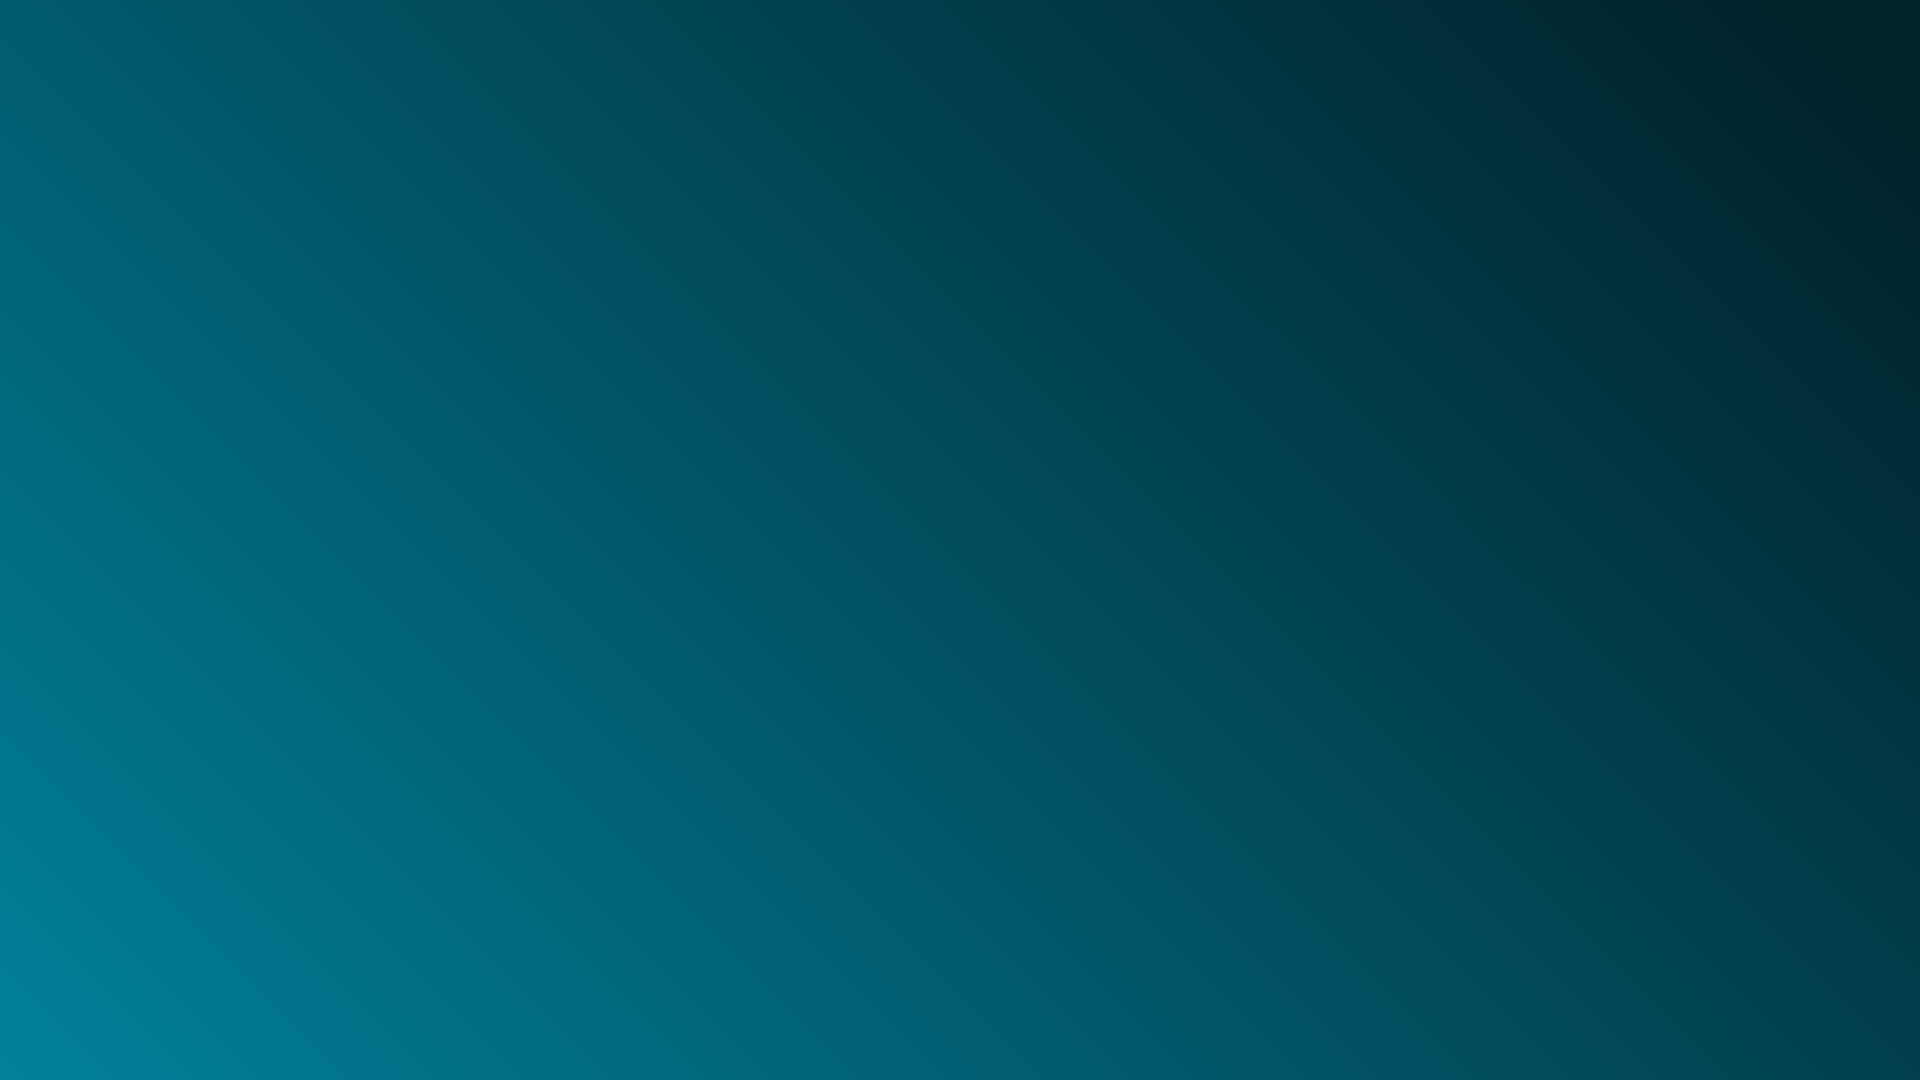
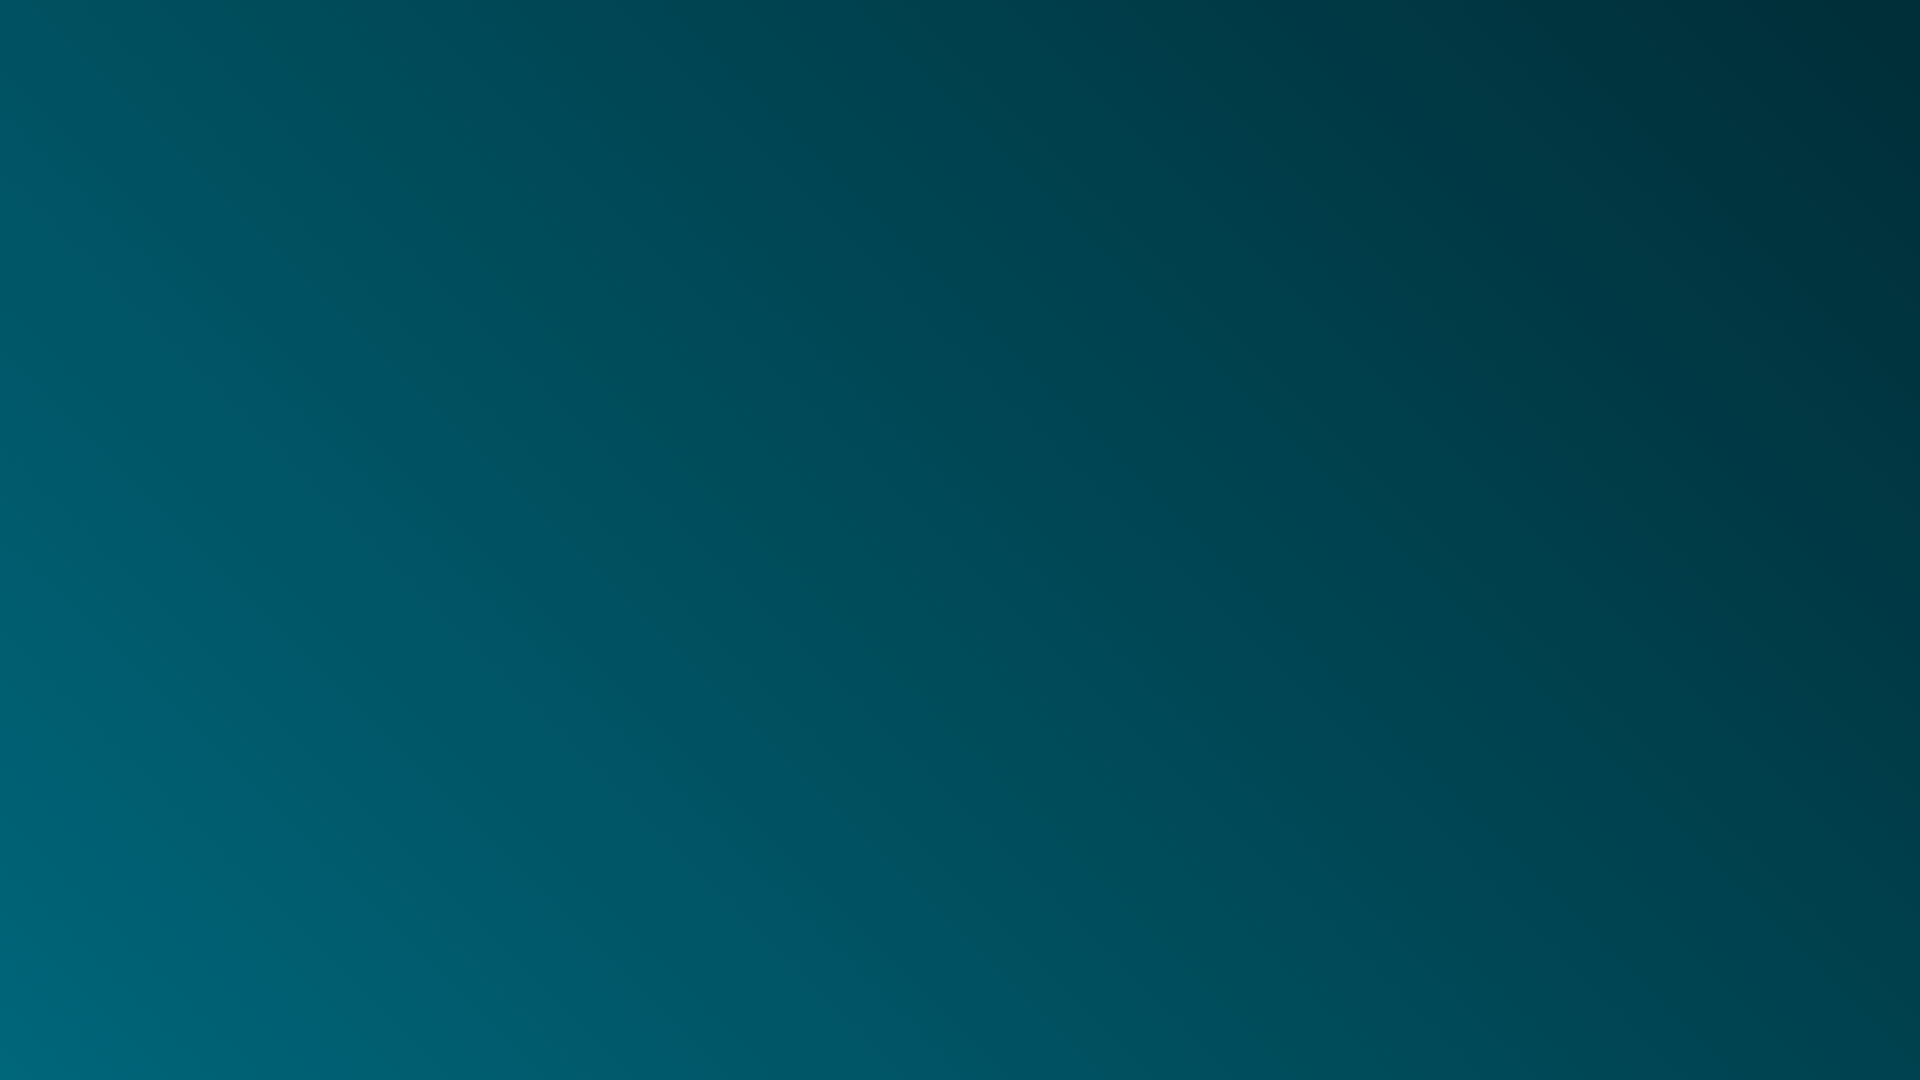
feat(ui): use the chosen teal for 말씀 and every teal background

Changed region(s): [[0.0, 0.6111, 0.2188, 1.0]]

diff --git a/test/renderer/features/presentation/BibleDisplayControls.test.tsx b/test/renderer/features/presentation/BibleDisplayControls.test.tsx
@@ -62,9 +62,14 @@ async function setup() {
   );
   return {...fixture, ...view};
 }
-function choose(name = 'Alternate') {
+async function choose(name = 'Alternate'): Promise<void> {
+  await waitFor(() =>
+    expect(
+      screen.getByRole('button', {name: '역본'}).getAttribute('aria-disabled'),
+    ).toBeNull(),
+  );
   fireEvent.click(screen.getByRole('button', {name: '역본'}));
-  fireEvent.click(screen.getByRole('menuitemradio', {name}));
+  fireEvent.click(await screen.findByRole('menuitemradio', {name}));
 }
 
 beforeEach(() => {
@@ -155,7 +160,7 @@ describe('Bible preview display controls', () => {
           .getAttribute('aria-disabled'),
       ).toBeNull(),
     );
-    choose();
+    await choose();
     await waitFor(() =>
       expect(currentSource().passage.translation).toBe(alternate),
     );
@@ -169,12 +174,12 @@ describe('Bible preview display controls', () => {
     });
     expect(fixture.send).not.toHaveBeenCalled();
     expect(fixture.edit).not.toHaveBeenCalled();
-    choose('Invented');
+    await choose('Invented');
     await waitFor(() =>
       expect(currentSource().passage.translation).toBe('sample'),
     );
     expect(useShow.getState().selectedTile).toBe(1);
-    choose('Invented');
+    await choose('Invented');
     expect(fixture.lookup).toHaveBeenCalledTimes(2);
   });
 
@@ -199,7 +204,7 @@ describe('Bible preview display controls', () => {
           },
         };
       });
-      choose();
+      await choose();
       await waitFor(() =>
         expect(currentSource().passage.translation).toBe(alternate),
       );
@@ -215,7 +220,7 @@ describe('Bible preview display controls', () => {
       new Error('Invented unavailable translation'),
     );
     const original = currentSource();
-    choose();
+    await choose();
     await waitFor(() =>
       expect(
         screen
@@ -230,7 +235,7 @@ describe('Bible preview display controls', () => {
         .getAttribute('aria-disabled'),
     ).toBeNull();
     expect(fixture.send).not.toHaveBeenCalled();
-    choose();
+    await choose();
     await waitFor(() =>
       expect(currentSource().passage.translation).toBe(alternate),
     );
@@ -245,7 +250,7 @@ describe('Bible preview display controls', () => {
           finish = resolve;
         }),
     );
-    choose();
+    await choose();
     fireEvent.click(screen.getByRole('button', {name: '역본'}));
     fireEvent.click(screen.getByRole('checkbox', {name: '절 번호'}));
     expect(screen.queryByRole('menu')).toBeNull();
@@ -272,7 +277,7 @@ describe('Bible preview display controls', () => {
             finish = resolve;
           }),
       );
-      choose();
+      await choose();
       act(() => {
         if (cancel === 'selection') openItem('song-morning');
         if (cancel === 'output') {
@@ -296,9 +301,13 @@ describe('Bible preview display controls', () => {
   it('releases a timed-out lookup without changing the preview', async () => {
     const fixture = await setup();
     const original = currentSource();
+    fireEvent.click(screen.getByRole('button', {name: '역본'}));
+    const alternateOption = await screen.findByRole('menuitemradio', {
+      name: 'Alternate',
+    });
     vi.useFakeTimers();
     fixture.lookup.mockReturnValueOnce(new Promise(() => undefined));
-    choose();
+    fireEvent.click(alternateOption);
     await act(async () => {
       await vi.advanceTimersByTimeAsync(2100);
     });

diff --git a/test/renderer/features/screens/themes/ThemeWorkspace.test.tsx b/test/renderer/features/screens/themes/ThemeWorkspace.test.tsx
@@ -563,11 +563,11 @@ it('picks gradient presets in one undo step, edits only the selected stop and re
   expect(within(presets).getAllByRole('button')).toHaveLength(19);
   fireEvent.click(within(presets).getByRole('button', {name: '청록'}));
   expect(screen.getByRole('textbox', {name: '색'}).getAttribute('value')).toBe(
-    '#00222B',
+    '#002E38',
   );
   fireEvent.click(screen.getByRole('slider', {name: '색 2, 100 %'}));
   expect(screen.getByRole('textbox', {name: '색'}).getAttribute('value')).toBe(
-    '#00809A',
+    '#00667A',
   );
   expect(screen.getAllByRole('spinbutton', {name: '위치'})).toHaveLength(1);
   fireEvent.click(within(presets).getByRole('button', {name: '적갈'}));
@@ -679,7 +679,7 @@ it('adds sampled stops, drags across neighbors in one undo step, and moves or de
   expect(background).toMatchObject({
     stops: [
       {color: '#004A59', position: 50},
-      {color: '#007A43', position: 87},
+      {color: '#3B8440', position: 87},
     ],
   });
 });

diff --git a/test/core/themes/gradientPresets.test.ts b/test/core/themes/gradientPresets.test.ts
@@ -11,12 +11,12 @@ it('keeps the chosen teal and approved presets in presentation order', () => {
       name: '청록',
       stops: [
         {
-          position: 5,
-          color: '#00222B',
+          position: 0,
+          color: '#002E38',
         },
         {
           position: 100,
-          color: '#00809A',
+          color: '#00667A',
         },
       ],
     },
@@ -42,11 +42,11 @@ it('keeps the chosen teal and approved presets in presentation order', () => {
       stops: [
         {
           position: 0,
-          color: '#003A24',
+          color: '#13452C',
         },
         {
           position: 100,
-          color: '#007A43',
+          color: '#3B8440',
         },
       ],
     },

diff --git a/src/core/themes/gradientPresets.ts b/src/core/themes/gradientPresets.ts
@@ -11,8 +11,8 @@ export const GRADIENT_PRESETS: readonly GradientPreset[] = (
     {
       name: '청록',
       stops: [
-        [5, '#00222B'],
-        [100, '#00809A'],
+        [0, '#002E38'],
+        [100, '#00667A'],
       ],
     },
     {
@@ -26,8 +26,8 @@ export const GRADIENT_PRESETS: readonly GradientPreset[] = (
     {
       name: '초록',
       stops: [
-        [0, '#003A24'],
-        [100, '#007A43'],
+        [0, '#13452C'],
+        [100, '#3B8440'],
       ],
     },
     {

diff --git a/docs/spec/12-themes.md b/docs/spec/12-themes.md
@@ -262,14 +262,14 @@ until the operator or an action changes it (S4 pp. 37 to 38).
 
 The gradient preset list uses angle 135 and these exact stops, in the order
 below. The first eight are the church palette, followed by the extra choices.
-Church presets place their stops at 0/100, or 0/50/100 for three colors, except
-the chosen 5/100 teal. The darker light green keeps white text readable.
+Church presets place their stops at 0/100, or 0/50/100 for three colors. The
+darker light green keeps white text readable.
 
 | Name     | Stops (percent, hex)                |
 | -------- | ----------------------------------- |
-| 청록     | 5 #00222B, 100 #00809A              |
+| 청록     | 0 #002E38, 100 #00667A              |
 | 적갈     | 0 #3A0000, 50 #5A2500, 100 #7A4900  |
-| 초록     | 0 #003A24, 100 #007A43              |
+| 초록     | 0 #13452C, 100 #3B8440              |
 | 자주     | 0 #3A002E, 100 #AC00A0              |
 | 청록초록 | 0 #003A28, 100 #008474              |
 | 남보라   | 0 #2C003A, 100 #0073AC              |
@@ -574,7 +574,7 @@ Keep unknown fields, as every settings file does (02).
   무대 화면 keeps its clock and timer, and 방송 화면 stays empty.
 - 예배 준비 is an additional normal theme for a 빈 슬라이드 item with one empty
   slide, not a kind default or the 대기 화면. Its audience picture has the
-  bracket frame over a teal gradient (angle 135, 5% #00222B, 100% #00809A). Two
+  bracket frame over a teal gradient (angle 135, 0% #002E38, 100% #00667A). Two
   editable 글 elements say "잠시후에 예배가 시작됩니다" and "지금은 기도로
   예배를 준비하는 시간입니다", centered in white KoPubWorldDotum Bold at 120 px
   and 74 px, without shadow or outline. Other screens use their normal
